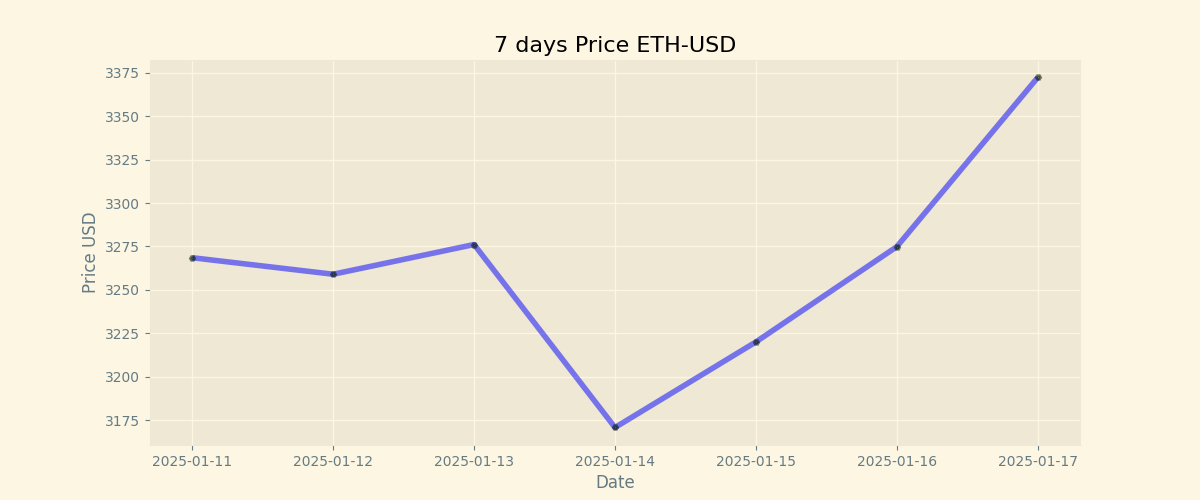
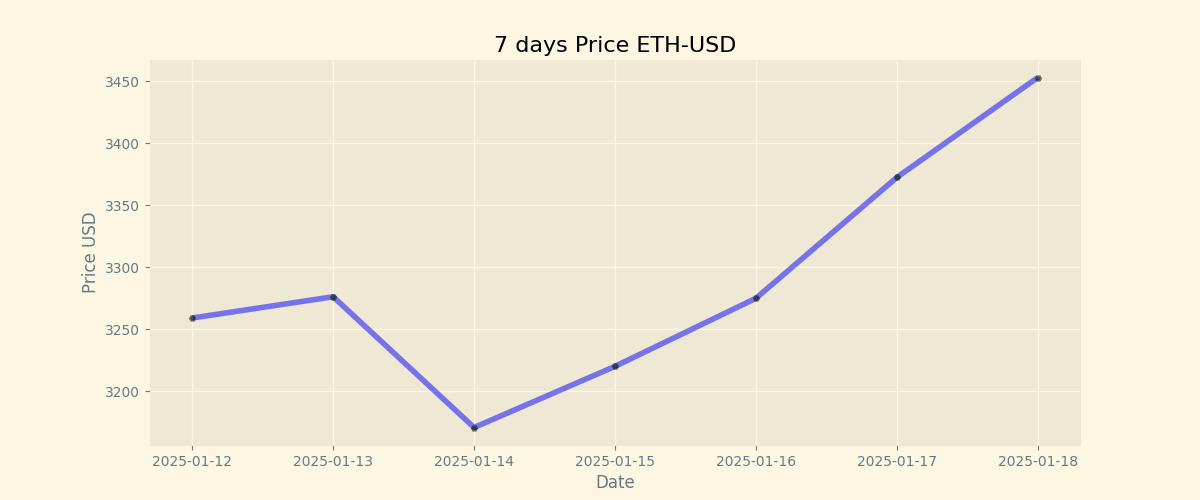
Duty Updates 2025-01-18

diff --git a/README.md b/README.md
@@ -9,8 +9,8 @@
 
 | Currency | Price           |
 | -------- | --------------- |
-| **BTC**  | **$ 99900.0** |
-| **ETH**  | **$ 3372.35** |
+| **BTC**  | **$ 102000.0** |
+| **ETH**  | **$ 3452.92** |
 
 ## BTC chart
 
